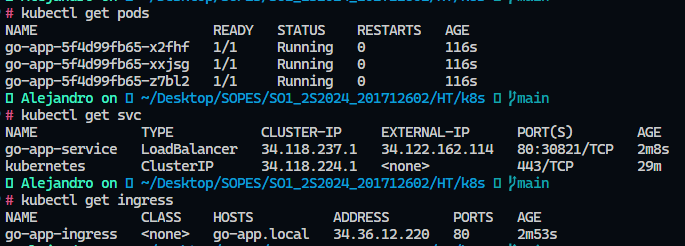
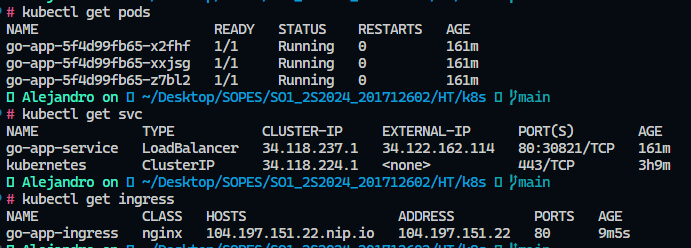
ht-terminada

diff --git a/HT/ht.md b/HT/ht.md
@@ -41,7 +41,7 @@ locust -f main.py
 
 ![alt text](<imgs/3 - configuracion de locust.png>)
 
-> ## Deployment
+> ## k8s
 ```bash
 kubectl apply -f [archivo.yaml]
 ```
@@ -49,19 +49,47 @@ kubectl apply -f [archivo.yaml]
 - [service.yaml](k8s/service.yaml)
 - [ingress.yaml](k8s/ingress.yaml)
 
+### Para que funcione el ingress
+```bash
+kubectl create ns nginx-ingress
+helm repo add ingress-nginx https://kubernetes.github.io/ingress-nginx 
+helm repo update 
+helm install nginx-ingress ingress-nginx/ingress-nginx -n nginx-ingress
+
+kubectl get services -n nginx-ingress #Con este comando obtenemos el host para el ingress
+```
+
+### Ingreso de los archivos al cluster
+```bash
+kubectl apply -f nombre_del_archivo
+```
+
 ![alt text](<imgs/5 - subiendo YAML files.png>)
+
+### Corroboramos que todo este funcionando
 
 ![alt text](<imgs/6 - uploads.png>)
 
 > ## Funcionamiento del proyecto
 
+### Iniciamos Locust
+```bash
+locust -f main.py --host http://104.197.151.22.nip.io
+```
+
+### Ingresamos el puerto
+![alt text](<imgs/7 - configuracion locust.png>)
+
 ### Enviamos trafico con locust
-![alt text](<imgs/7 - trafico en locust.png>)
+![alt text](<imgs/8 - trafico en locust.png>)
 
 ### Logs de envios
-![alt text](<imgs/8 - logs de locust.png>)
+![alt text](<imgs/9 - logs de locust.png>)
+
+### Resumen de traffico
+![alt text](<imgs/10 - resultados locust.png>)
 
 > ## Eliminacion del cluster
 ```bash
-gcloud container clusters delete nginx-cluster --zone us-central1-a
+gcloud container clusters delete ht-cluster --zone us-central1-a
 ```
